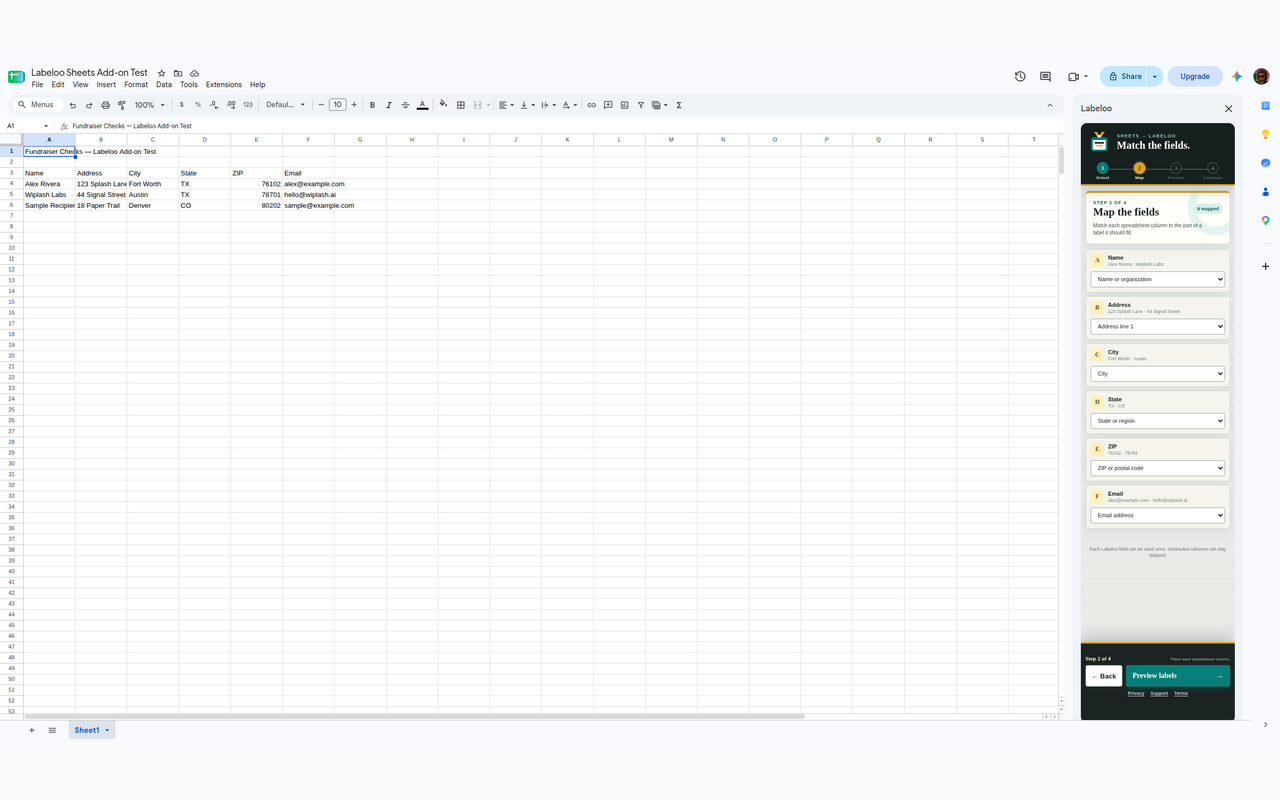
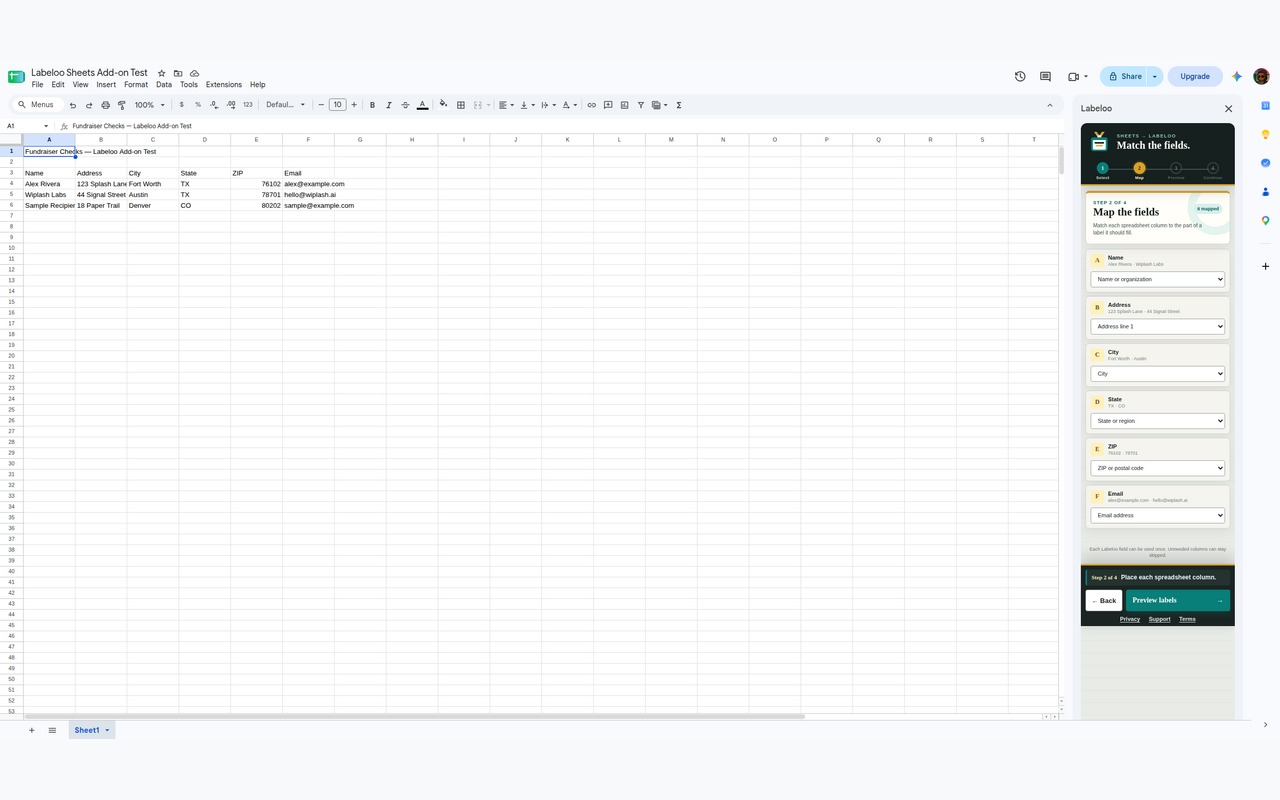
Tighten Labeloo Sheets action dock layout

Changed region(s): [[0.8438, 0.6875, 0.9688, 0.9062]]

diff --git a/appsscript/Stylesheet.html b/appsscript/Stylesheet.html
@@ -14,7 +14,6 @@
   --gold: #d8a327;
   --gold-wash: #fff1bd;
   --danger: #a33733;
-  --dock-height: 157px;
 }
 
 * { box-sizing: border-box; }
@@ -119,7 +118,7 @@ h2[tabindex="-1"]:focus { outline: none; }
 .stepper button.active { color: var(--gold-wash); }
 .stepper button.active .step-dot { border-color: var(--gold); background: var(--gold); color: var(--ink); box-shadow: 0 0 0 3px rgba(216,163,39,.14); }
 
-main { min-height: 400px; padding: 10px 9px calc(var(--dock-height) + 16px); }
+main { padding: 10px 9px 0; }
 
 .workflow-step {
   display: grid;
@@ -253,29 +252,38 @@ input, select {
 .button--small { min-height: 29px; padding: 0 8px; font-size: 10px; }
 
 .action-dock {
-  position: fixed;
+  position: sticky;
   z-index: 40;
-  right: 0;
   bottom: 0;
-  left: 0;
-  min-height: var(--dock-height);
-  padding: 7px 9px 9px;
+  margin-top: 10px;
+  padding: 8px 9px 5px;
   border-top: 3px solid var(--gold);
   background: rgba(22, 32, 31, .98);
   color: var(--paper);
   box-shadow: 0 -9px 28px rgba(22,32,31,.22);
 }
-.action-dock > p { min-height: 12px; margin: 0 0 4px; color: #b9c7c3; font-size: 9px; text-align: center; }
-.fallback-link { display: block; margin: 0 0 5px; color: var(--gold-wash); font-size: 10px; text-align: center; }
-.dock-context { display: flex; align-items: baseline; justify-content: space-between; gap: 7px; margin-bottom: 7px; }
-.dock-context span { color: var(--gold-wash); font: 700 11px Georgia, serif; white-space: nowrap; }
-.dock-context small { overflow: hidden; color: #aab8b5; font-size: 8px; text-align: right; text-overflow: ellipsis; white-space: nowrap; }
+.action-dock > p { margin: 0 0 6px; color: #ffd3cf; font-size: 11px; line-height: 1.35; text-align: center; }
+.action-dock > p:empty { display: none; }
+.fallback-link { display: block; margin: 0 0 6px; color: var(--gold-wash); font-size: 11px; text-align: center; }
+.dock-context {
+  display: grid;
+  grid-template-columns: auto minmax(0, 1fr);
+  align-items: center;
+  gap: 8px;
+  margin-bottom: 8px;
+  padding: 8px 9px;
+  border-left: 3px solid var(--teal);
+  border-radius: 4px;
+  background: #253330;
+}
+.dock-context span { color: var(--gold-wash); font: 700 11px/1.2 Georgia, serif; white-space: nowrap; }
+.dock-context small { color: #eef5f3; font-size: 12px; font-weight: 700; line-height: 1.3; }
 .step-actions { display: grid; grid-template-columns: auto minmax(0, 1fr); gap: 7px; }
 .step-actions .button { min-height: 42px; }
 .step-actions .button--primary { display: flex; align-items: center; justify-content: space-between; padding: 0 13px; font-family: Georgia, serif; font-size: 14px; }
 .step-actions #continueButton { grid-column: 2; }
-.product-links { display: flex; justify-content: center; gap: 12px; margin-top: 8px; }
-.product-links a { color: #c8d4d1; font-size: 9px; font-weight: 900; text-decoration-thickness: 1px; text-underline-offset: 2px; }
+.product-links { display: flex; justify-content: center; gap: 15px; margin-top: 5px; }
+.product-links a { padding: 3px 1px 1px; color: #dce7e4; font-size: 11px; font-weight: 900; line-height: 1.35; text-decoration-thickness: 1px; text-underline-offset: 2px; }
 .product-links a:hover { color: var(--gold-wash); }
 
 @media (prefers-reduced-motion: no-preference) {

diff --git a/src/styles.css b/src/styles.css
@@ -13,7 +13,6 @@
   --gold: #d8a327;
   --gold-wash: #fff1bd;
   --danger: #a33733;
-  --dock-height: 157px;
 }
 
 * { box-sizing: border-box; }
@@ -118,7 +117,7 @@ h2[tabindex="-1"]:focus { outline: none; }
 .stepper button.active { color: var(--gold-wash); }
 .stepper button.active .step-dot { border-color: var(--gold); background: var(--gold); color: var(--ink); box-shadow: 0 0 0 3px rgba(216,163,39,.14); }
 
-main { min-height: 400px; padding: 10px 9px calc(var(--dock-height) + 16px); }
+main { padding: 10px 9px 0; }
 
 .workflow-step {
   display: grid;
@@ -252,29 +251,38 @@ input, select {
 .button--small { min-height: 29px; padding: 0 8px; font-size: 10px; }
 
 .action-dock {
-  position: fixed;
+  position: sticky;
   z-index: 40;
-  right: 0;
   bottom: 0;
-  left: 0;
-  min-height: var(--dock-height);
-  padding: 7px 9px 9px;
+  margin-top: 10px;
+  padding: 8px 9px 5px;
   border-top: 3px solid var(--gold);
   background: rgba(22, 32, 31, .98);
   color: var(--paper);
   box-shadow: 0 -9px 28px rgba(22,32,31,.22);
 }
-.action-dock > p { min-height: 12px; margin: 0 0 4px; color: #b9c7c3; font-size: 9px; text-align: center; }
-.fallback-link { display: block; margin: 0 0 5px; color: var(--gold-wash); font-size: 10px; text-align: center; }
-.dock-context { display: flex; align-items: baseline; justify-content: space-between; gap: 7px; margin-bottom: 7px; }
-.dock-context span { color: var(--gold-wash); font: 700 11px Georgia, serif; white-space: nowrap; }
-.dock-context small { overflow: hidden; color: #aab8b5; font-size: 8px; text-align: right; text-overflow: ellipsis; white-space: nowrap; }
+.action-dock > p { margin: 0 0 6px; color: #ffd3cf; font-size: 11px; line-height: 1.35; text-align: center; }
+.action-dock > p:empty { display: none; }
+.fallback-link { display: block; margin: 0 0 6px; color: var(--gold-wash); font-size: 11px; text-align: center; }
+.dock-context {
+  display: grid;
+  grid-template-columns: auto minmax(0, 1fr);
+  align-items: center;
+  gap: 8px;
+  margin-bottom: 8px;
+  padding: 8px 9px;
+  border-left: 3px solid var(--teal);
+  border-radius: 4px;
+  background: #253330;
+}
+.dock-context span { color: var(--gold-wash); font: 700 11px/1.2 Georgia, serif; white-space: nowrap; }
+.dock-context small { color: #eef5f3; font-size: 12px; font-weight: 700; line-height: 1.3; }
 .step-actions { display: grid; grid-template-columns: auto minmax(0, 1fr); gap: 7px; }
 .step-actions .button { min-height: 42px; }
 .step-actions .button--primary { display: flex; align-items: center; justify-content: space-between; padding: 0 13px; font-family: Georgia, serif; font-size: 14px; }
 .step-actions #continueButton { grid-column: 2; }
-.product-links { display: flex; justify-content: center; gap: 12px; margin-top: 8px; }
-.product-links a { color: #c8d4d1; font-size: 9px; font-weight: 900; text-decoration-thickness: 1px; text-underline-offset: 2px; }
+.product-links { display: flex; justify-content: center; gap: 15px; margin-top: 5px; }
+.product-links a { padding: 3px 1px 1px; color: #dce7e4; font-size: 11px; font-weight: 900; line-height: 1.35; text-decoration-thickness: 1px; text-underline-offset: 2px; }
 .product-links a:hover { color: var(--gold-wash); }
 
 @media (prefers-reduced-motion: no-preference) {

diff --git a/store-assets/RELEASE_NOTES_1.0.0.md b/store-assets/RELEASE_NOTES_1.0.0.md
@@ -2,7 +2,7 @@
 
 First public-release candidate:
 
-- Frozen as Apps Script version 2 with a separate versioned release-candidate
+- Frozen as Apps Script version 3 with a separate versioned release-candidate
   deployment; the existing latest-code test deployment remains unchanged.
 
 - Reads the selected cells, surrounding table, used range, or a custom A1 range.
@@ -11,6 +11,8 @@ First public-release candidate:
 - Maps unfamiliar spreadsheet columns into Labeloo fields with a live preview.
 - Presents Select, Map, Preview, and Continue as focused stages designed for
   Google Sheets' compact sidebar.
+- Places the action dock directly after each step with readable guidance and
+  larger Privacy, Support, and Terms links.
 - Reuses a revocable Wiplash.ai connection without requesting Google Drive access.
 - Transfers mapped labels through an encrypted, account-bound, ten-minute,
   single-use receipt only after the user clicks Continue.

diff --git a/README.md b/README.md
@@ -78,9 +78,9 @@ The production account and receipt service is deployed at
 Auth Platform testing and the Marketplace listing must remain a draft until
 OAuth verification succeeds.
 
-Release candidate 1.0.0 is frozen as Apps Script version `2` and deployment
+Release candidate 1.0.0 is frozen as Apps Script version `3` and deployment
 `AKfycbxLznNHzKFkRIXOX96EPwg5QUYSgYexqJ3-AbIMldEeC0Eg0Vwy8UVA7TEYHlFnYGq1qA`.
-Version `1` remains available as the original release-candidate snapshot.
+Versions `1` and `2` remain available as earlier release-candidate snapshots.
 The separate `@HEAD` test deployment remains available for unpublished QA.
 
 ## Security and license

diff --git a/docs/QA_CHECKLIST.md b/docs/QA_CHECKLIST.md
@@ -48,6 +48,8 @@
 ## Listing and accessibility
 
 - [ ] Sidebar and Marketplace artwork use the canonical Labeloo name-tag mark and spell Labeloo consistently.
+- [ ] The changing action hint and Privacy, Support, and Terms links remain readable at normal zoom.
+- [ ] The action dock follows short step content without a large empty gap or unused dark footer space.
 - [ ] Sidebar keyboard navigation, focus outlines, status messages, and disabled states work.
 - [ ] Text remains readable at browser and operating-system zoom settings.
 - [ ] Privacy, support, and terms links open the correct public pages.

diff --git a/store-assets/LISTING.md b/store-assets/LISTING.md
@@ -57,6 +57,10 @@ label-stock compatibility.
 - Help: `https://labs.wiplash.ai/labeloo/support/`
 - Report issue: `https://github.com/Wiplash-ai/labeloo-google-sheets/issues`
 
+## Post-install tip
+
+Open any spreadsheet, then choose **Extensions → Labeloo → Create labels from this sheet**.
+
 ## Distribution
 
 - Visibility: Public
